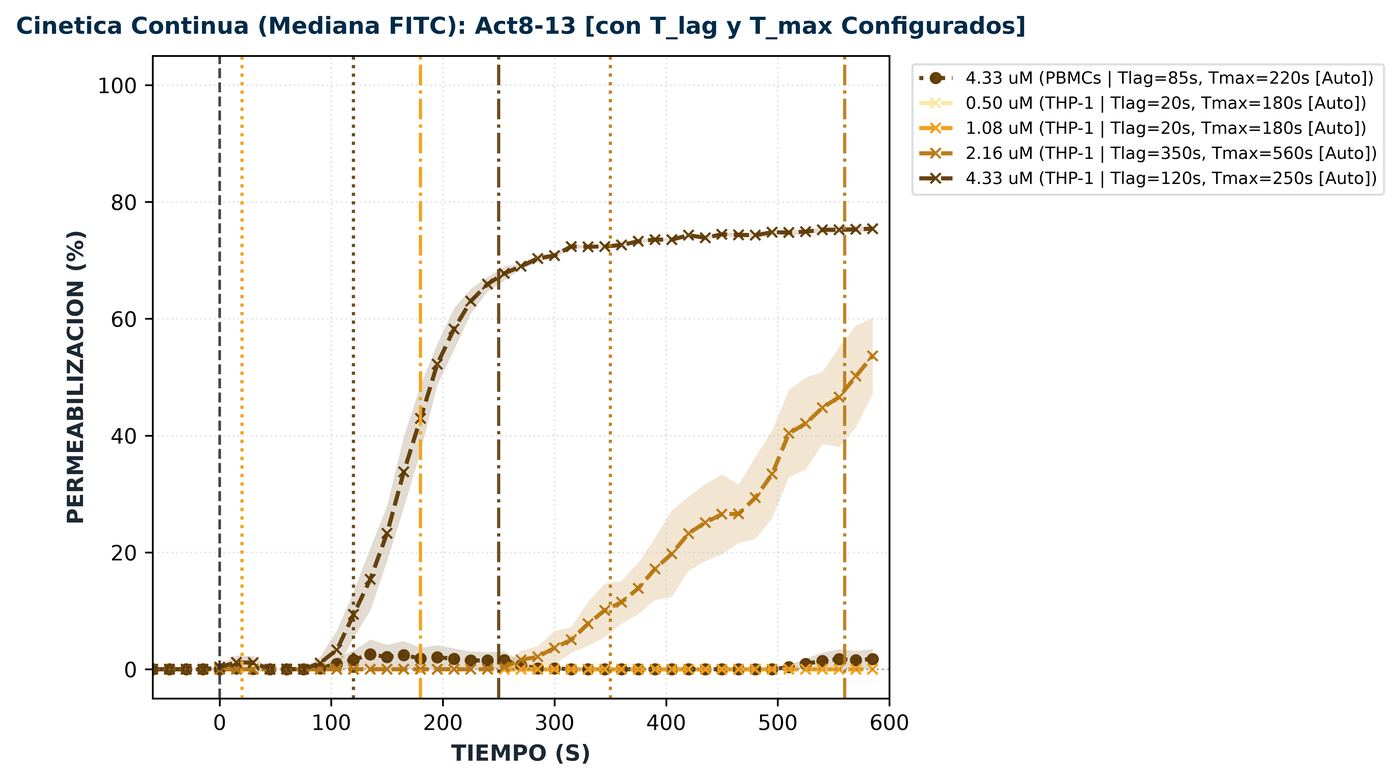
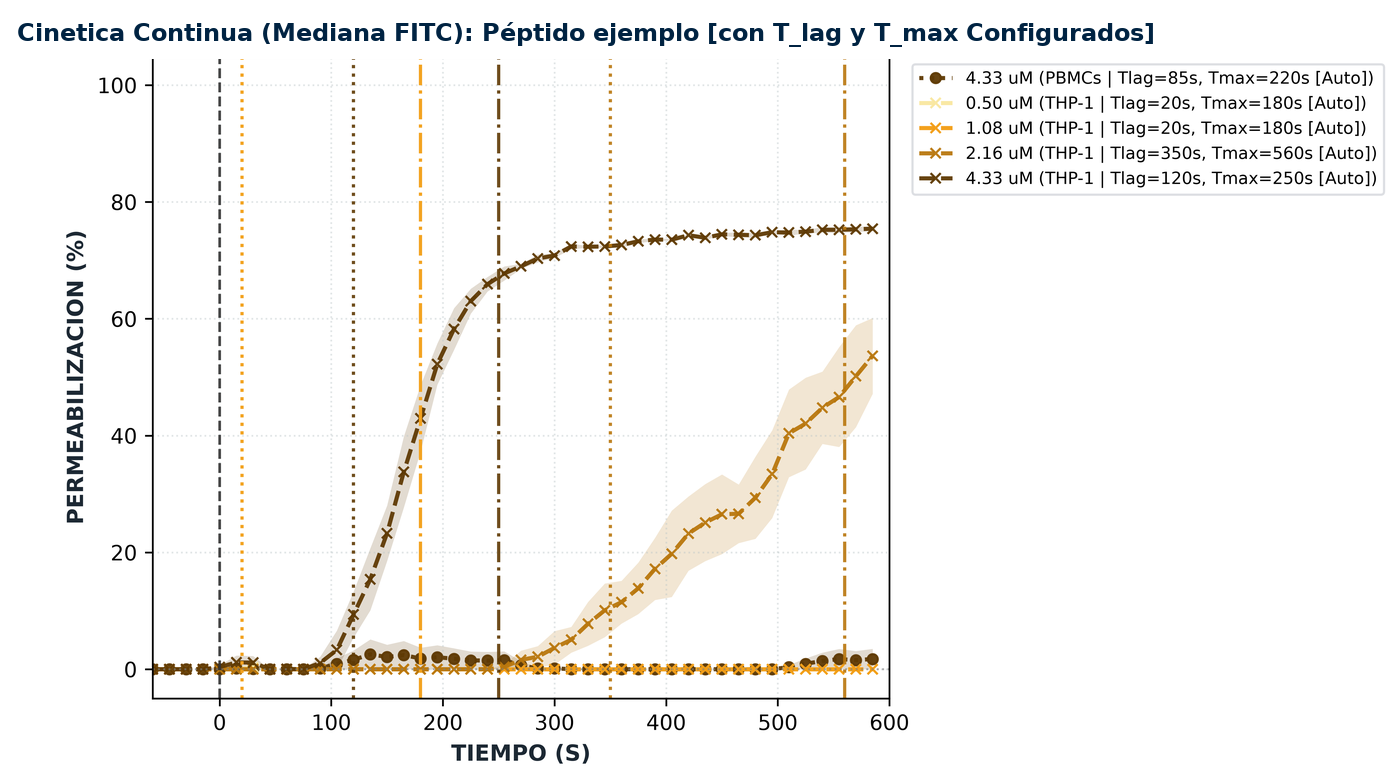
docs: enmascarar nombre de peptido experimental por 'Péptido ejemplo' en README y figuras

Changed region(s): [[0.0, 0.0, 0.8293, 0.0614]]

diff --git a/README.md b/README.md
@@ -19,7 +19,7 @@
 ## 📌 ¿Qué es Poralytix?
 
 Poralytix es una estación de trabajo científica para estudiar la **actividad citolítica de péptidos**
-(p. ej. *Act8-13*, *Act8-20*, *Satanin 1*, *CZS5*) mediante ensayos cinéticos de **retención/fuga de
+(p. ej. *Péptido ejemplo*, *Act8-20*, *Satanin 1*, *CZS5*) mediante ensayos cinéticos de **retención/fuga de
 calceína (FITC)** adquiridos por citometría de flujo.
 
 A partir de archivos `.fcs` crudos, Poralytix reconstruye la cinética evento a evento y responde
@@ -42,7 +42,7 @@ las preguntas clave del ensayo:
 
 ## 🔬 Resultados que produce
 
-Ejemplo real de salida para **Act8-13** sobre **THP-1** (diana) y **PBMCs** (control sano),
+Ejemplo real de salida para **Péptido ejemplo** sobre **THP-1** (diana) y **PBMCs** (control sano),
 dosis de 0.50 a 4.33 µM, ventana de −60 a 600 s y bins de 15 s.
 
 ### 1. Clasificación de eventos con doble cut-off
@@ -73,7 +73,7 @@ Superposición de la permeabilización continua (A) y del % de eventos afectados
 
 ### Lectura de los resultados del ejemplo
 
-| Indicador | Resultado (Act8-13) |
+| Indicador | Resultado (Péptido ejemplo) |
 | :--- | :--- |
 | Umbral de actividad en THP-1 | Sin efecto a 0.50–1.08 µM; lisis significativa desde **2.16 µM** |
 | Permeabilización máxima (THP-1, 4.33 µM) | **~75 %** continua · **85 %** eventos V2L al final del ensayo |
@@ -209,7 +209,7 @@ Los metadatos se deducen del nombre del archivo, por ejemplo:
 
 | Archivo | Compuesto | Línea | Dosis | Rol | Réplica |
 | :--- | :--- | :--- | :--- | :--- | :--- |
-| `THP1-813-0.5-1.fcs` | Act8-13 | THP-1 | 0.5 µM | Experimental | R1 |
+| `THP1-pep_ejemplo-0.5-1.fcs` | Péptido ejemplo | THP-1 | 0.5 µM | Experimental | R1 |
 | `PBMCs-CC-sat1-5.7-3.fcs` | Satanin 1 | PBMCs | 5.7 µM | Control basal | R3 |
 | `CZS5_THP1_9_CC_2.fcs` | CZS5 | THP-1 | 9 µM | Control basal | R2 |
 
